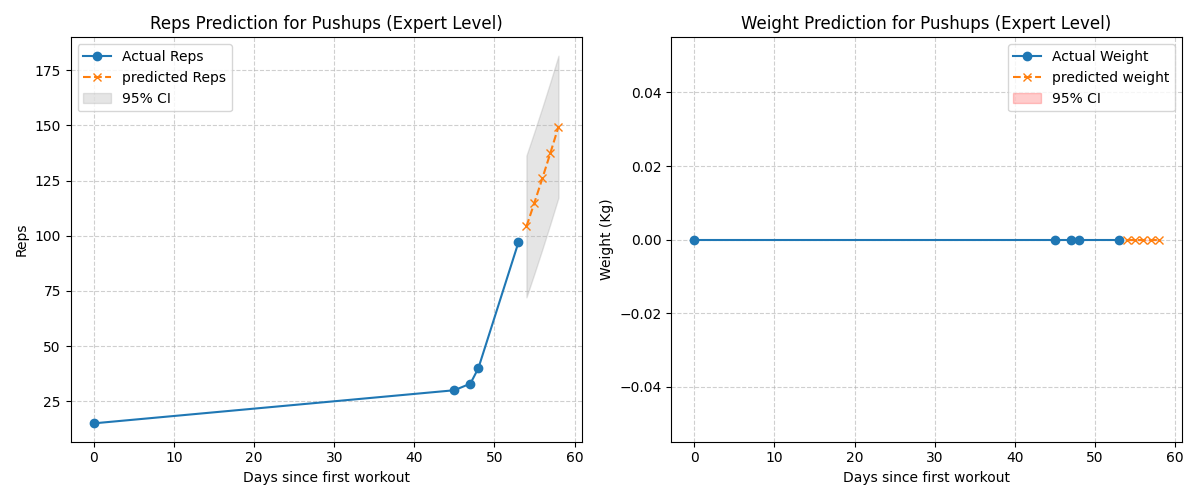
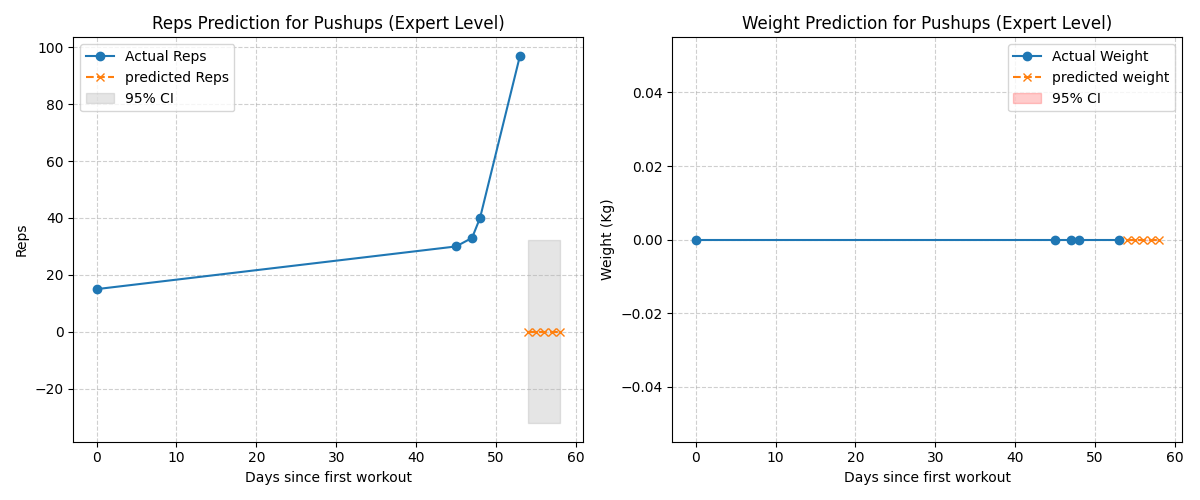
silly little bug

diff --git a/predictor.py b/predictor.py
@@ -122,6 +122,8 @@ def predict_targets(dates, reps, weights, user_level="intermediate", degree=2):
     # Makes sure that these predictions are capped at a certain level
     
   # This ensures predictions do not exceed max levels
+    future_reps = np.minimum(future_reps, max_reps)
+    future_weights = np.minimum(future_weights, max_weights)
     # Next we calculate the 95% confidence intervals
     # this shows that these predictions are approximations
     # not certain values just to help users to plan workouts
